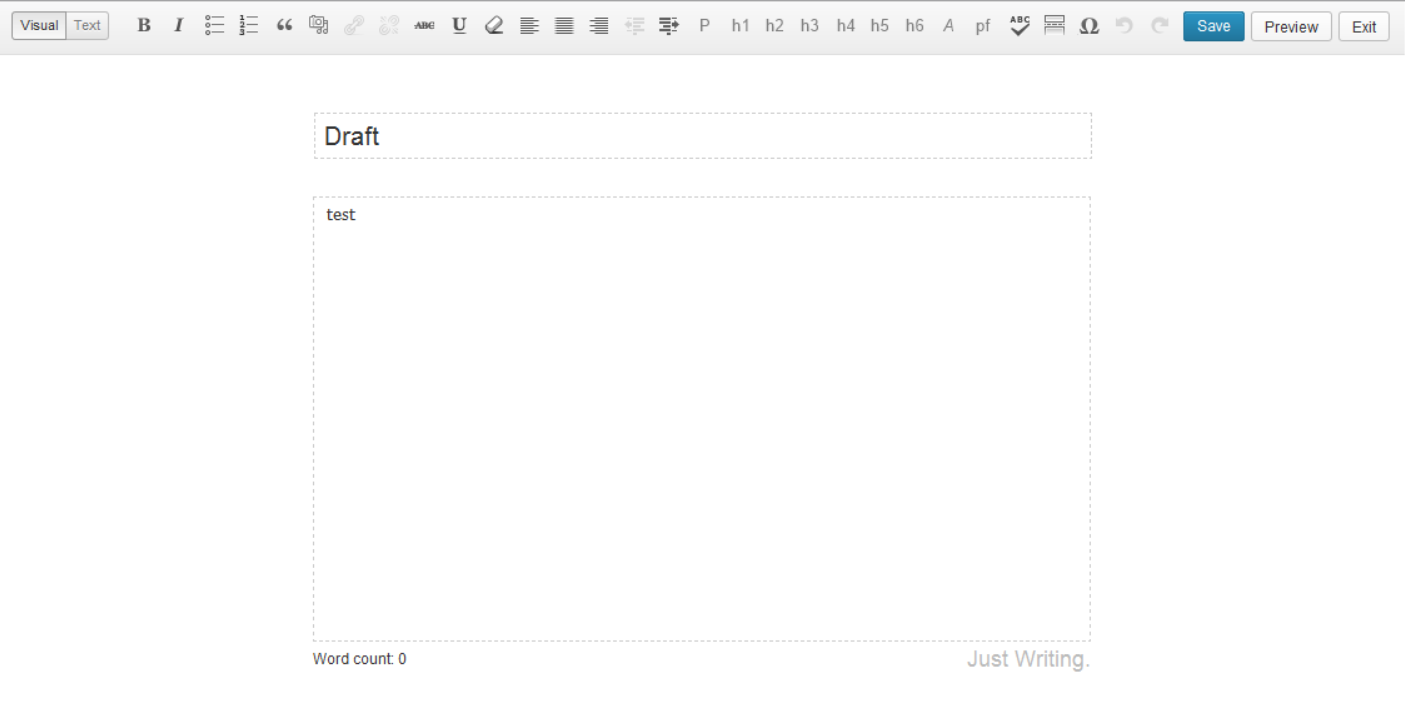
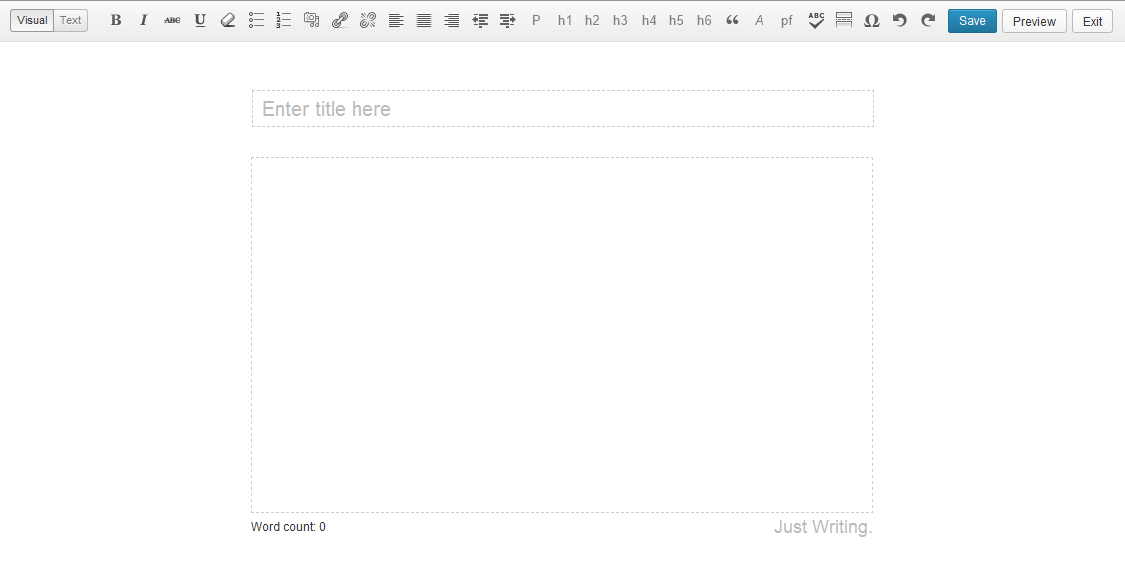
- Added code to hide the options list in the user panel when disabled. - Updated the screen shots.

diff --git a/just-writing.php b/just-writing.php
@@ -523,10 +523,12 @@ if( !function_exists( 'JustWriting' ) )
 		<tr>
 			<th><label for="just_writing_enabled"><?php echo __("Enable Just Writing");?></label></th>
 			<td>
-			<input type="checkbox" id="just_writing_enabled" name="just_writing_enabled" <?php if( get_the_author_meta( 'just_writing_enabled', $user->ID ) == "on" ) { echo "CHECKED"; } ?>>
+			<input type="checkbox" id="just_writing_enabled" name="just_writing_enabled" <?php if( get_the_author_meta( 'just_writing_enabled', $user->ID ) == "on" ) { echo "CHECKED"; } ?> onClick="if(!just_writing_enabled.checked){ just_writing_options_table.style.display='none'}else{just_writing_options_table.style.display=''}">
 			<span class="description"><?php echo __("Check to enable Just Writing");?></span>
 			</td>
 		</tr>
+	</table>
+	<table class="form-table" id='just_writing_options_table' <?php if( get_the_author_meta( 'just_writing_enabled', $user->ID ) != "on" ) { echo "style='display:none;'"; } ?>>	
 		<tr>
 			<th><label for="just_writing_options"><?php echo __("Options");?></label></th>
 			<td>
